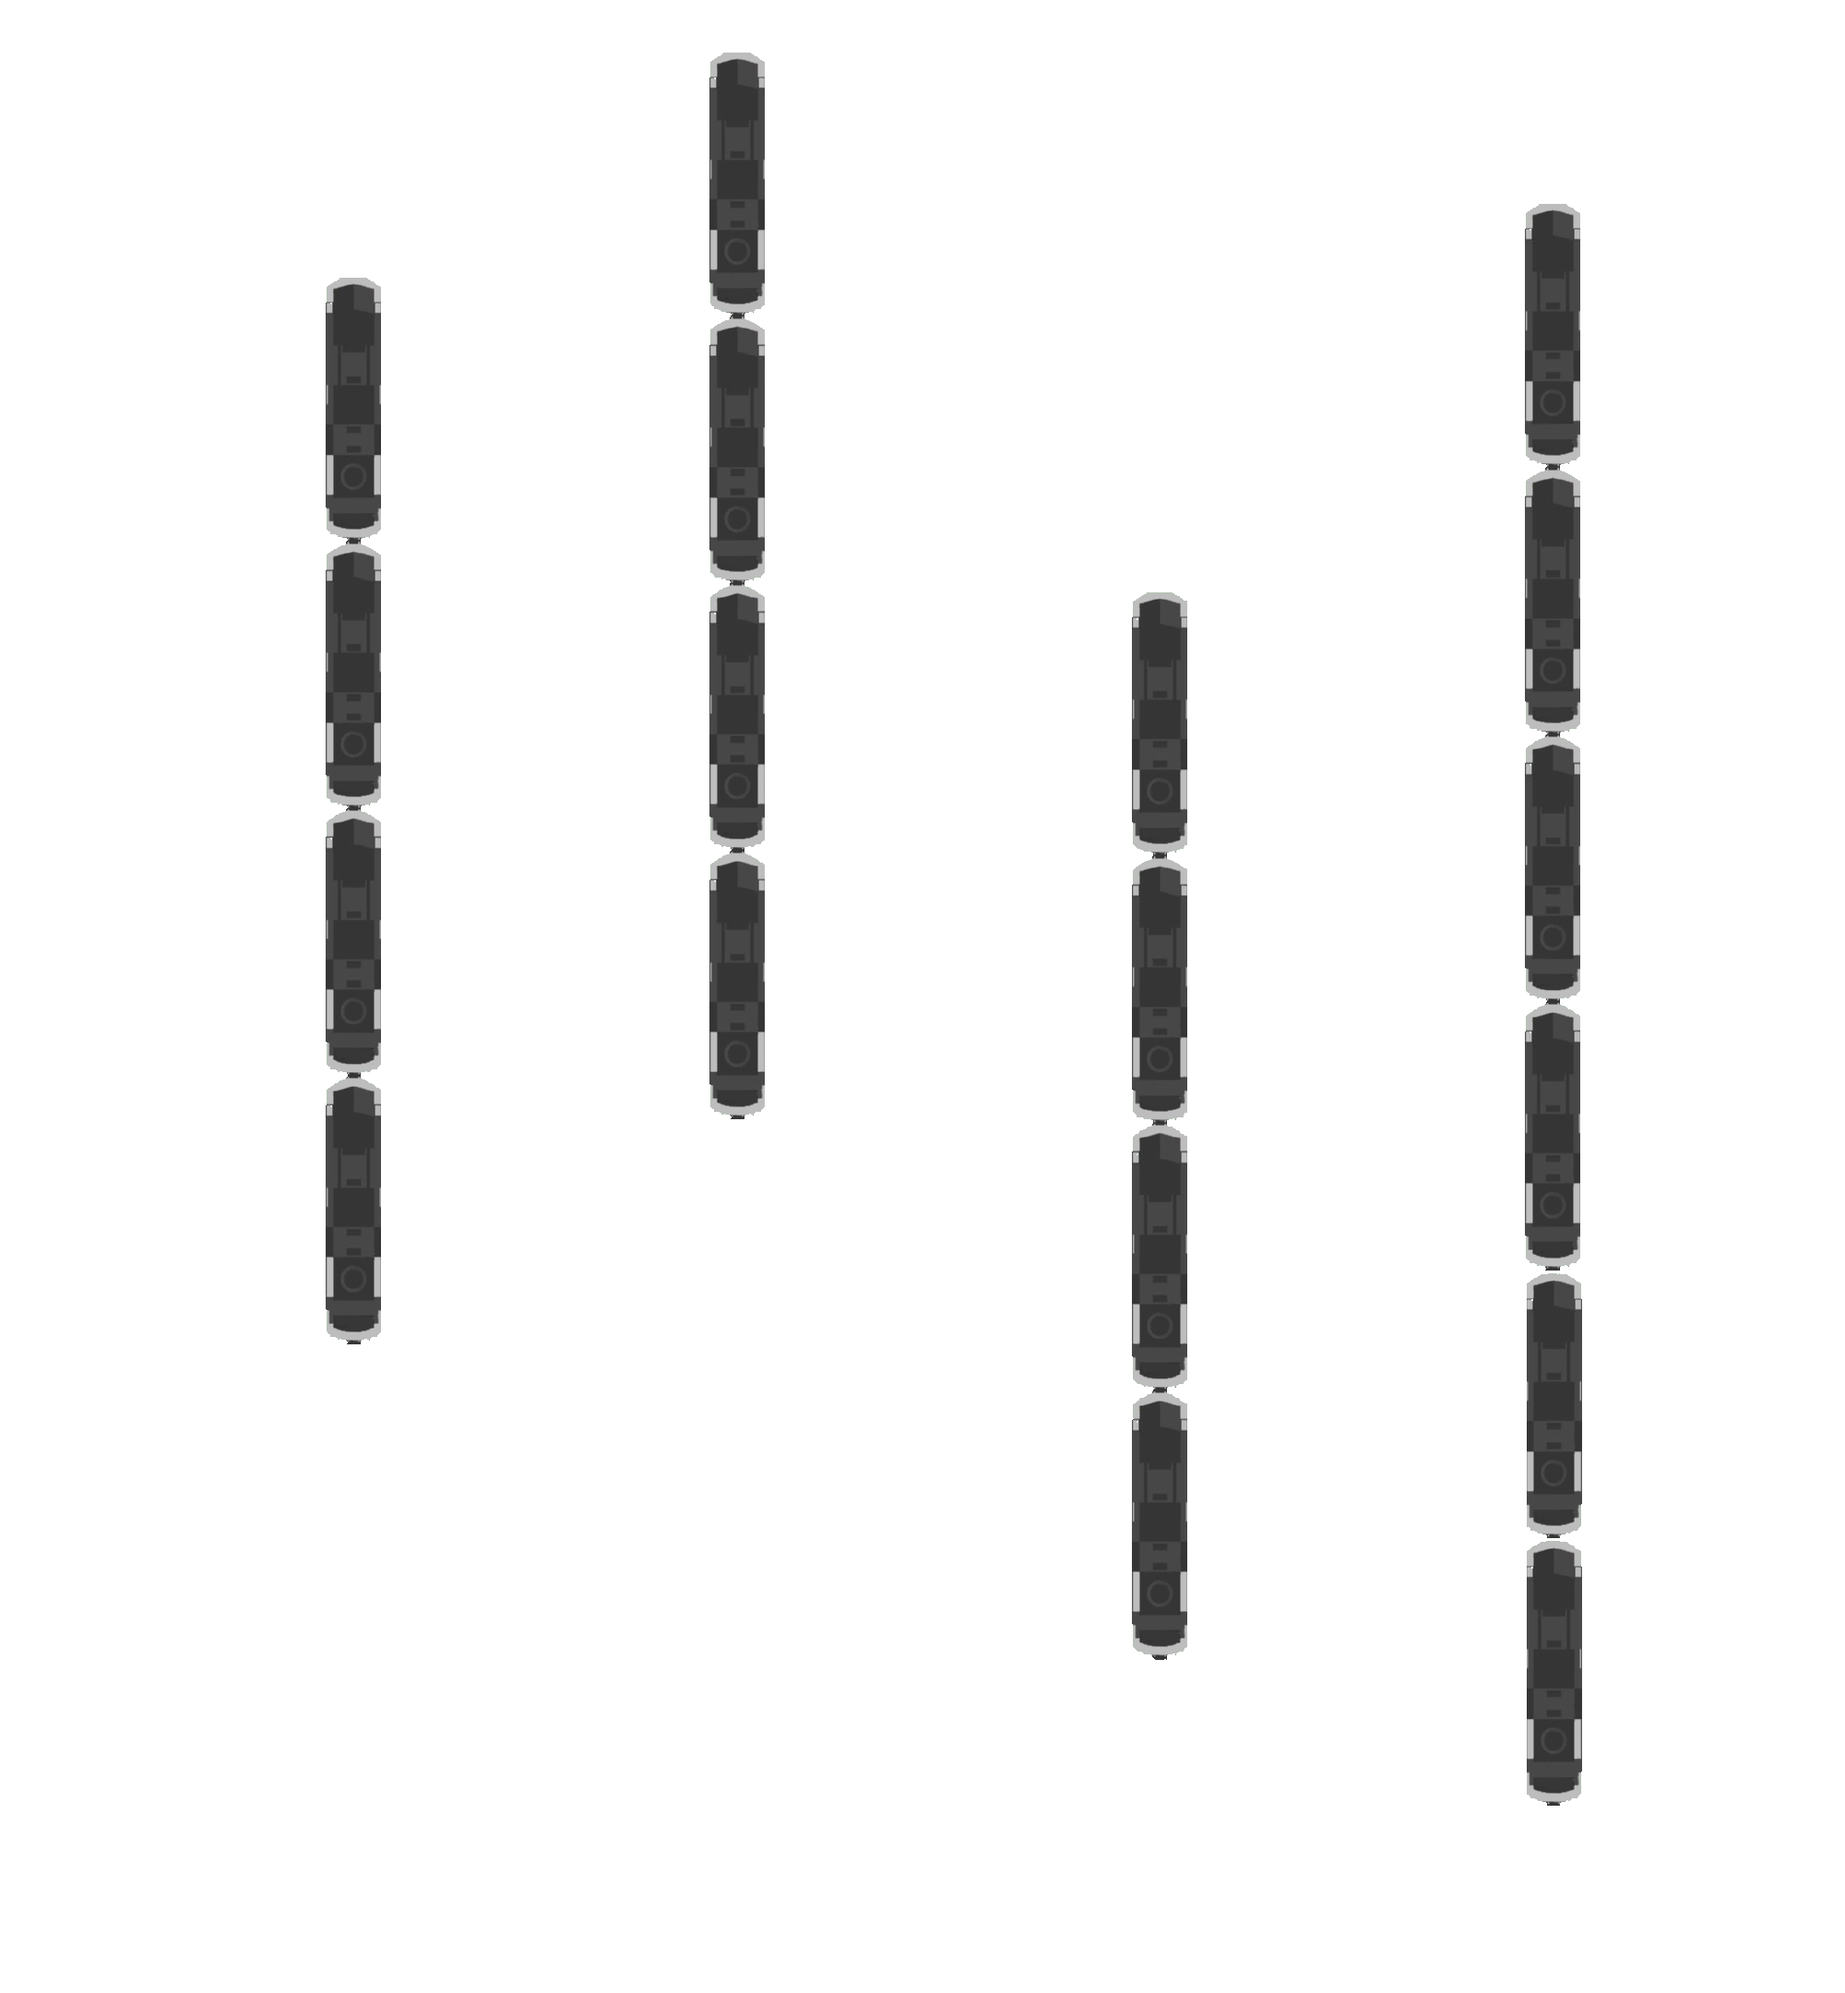
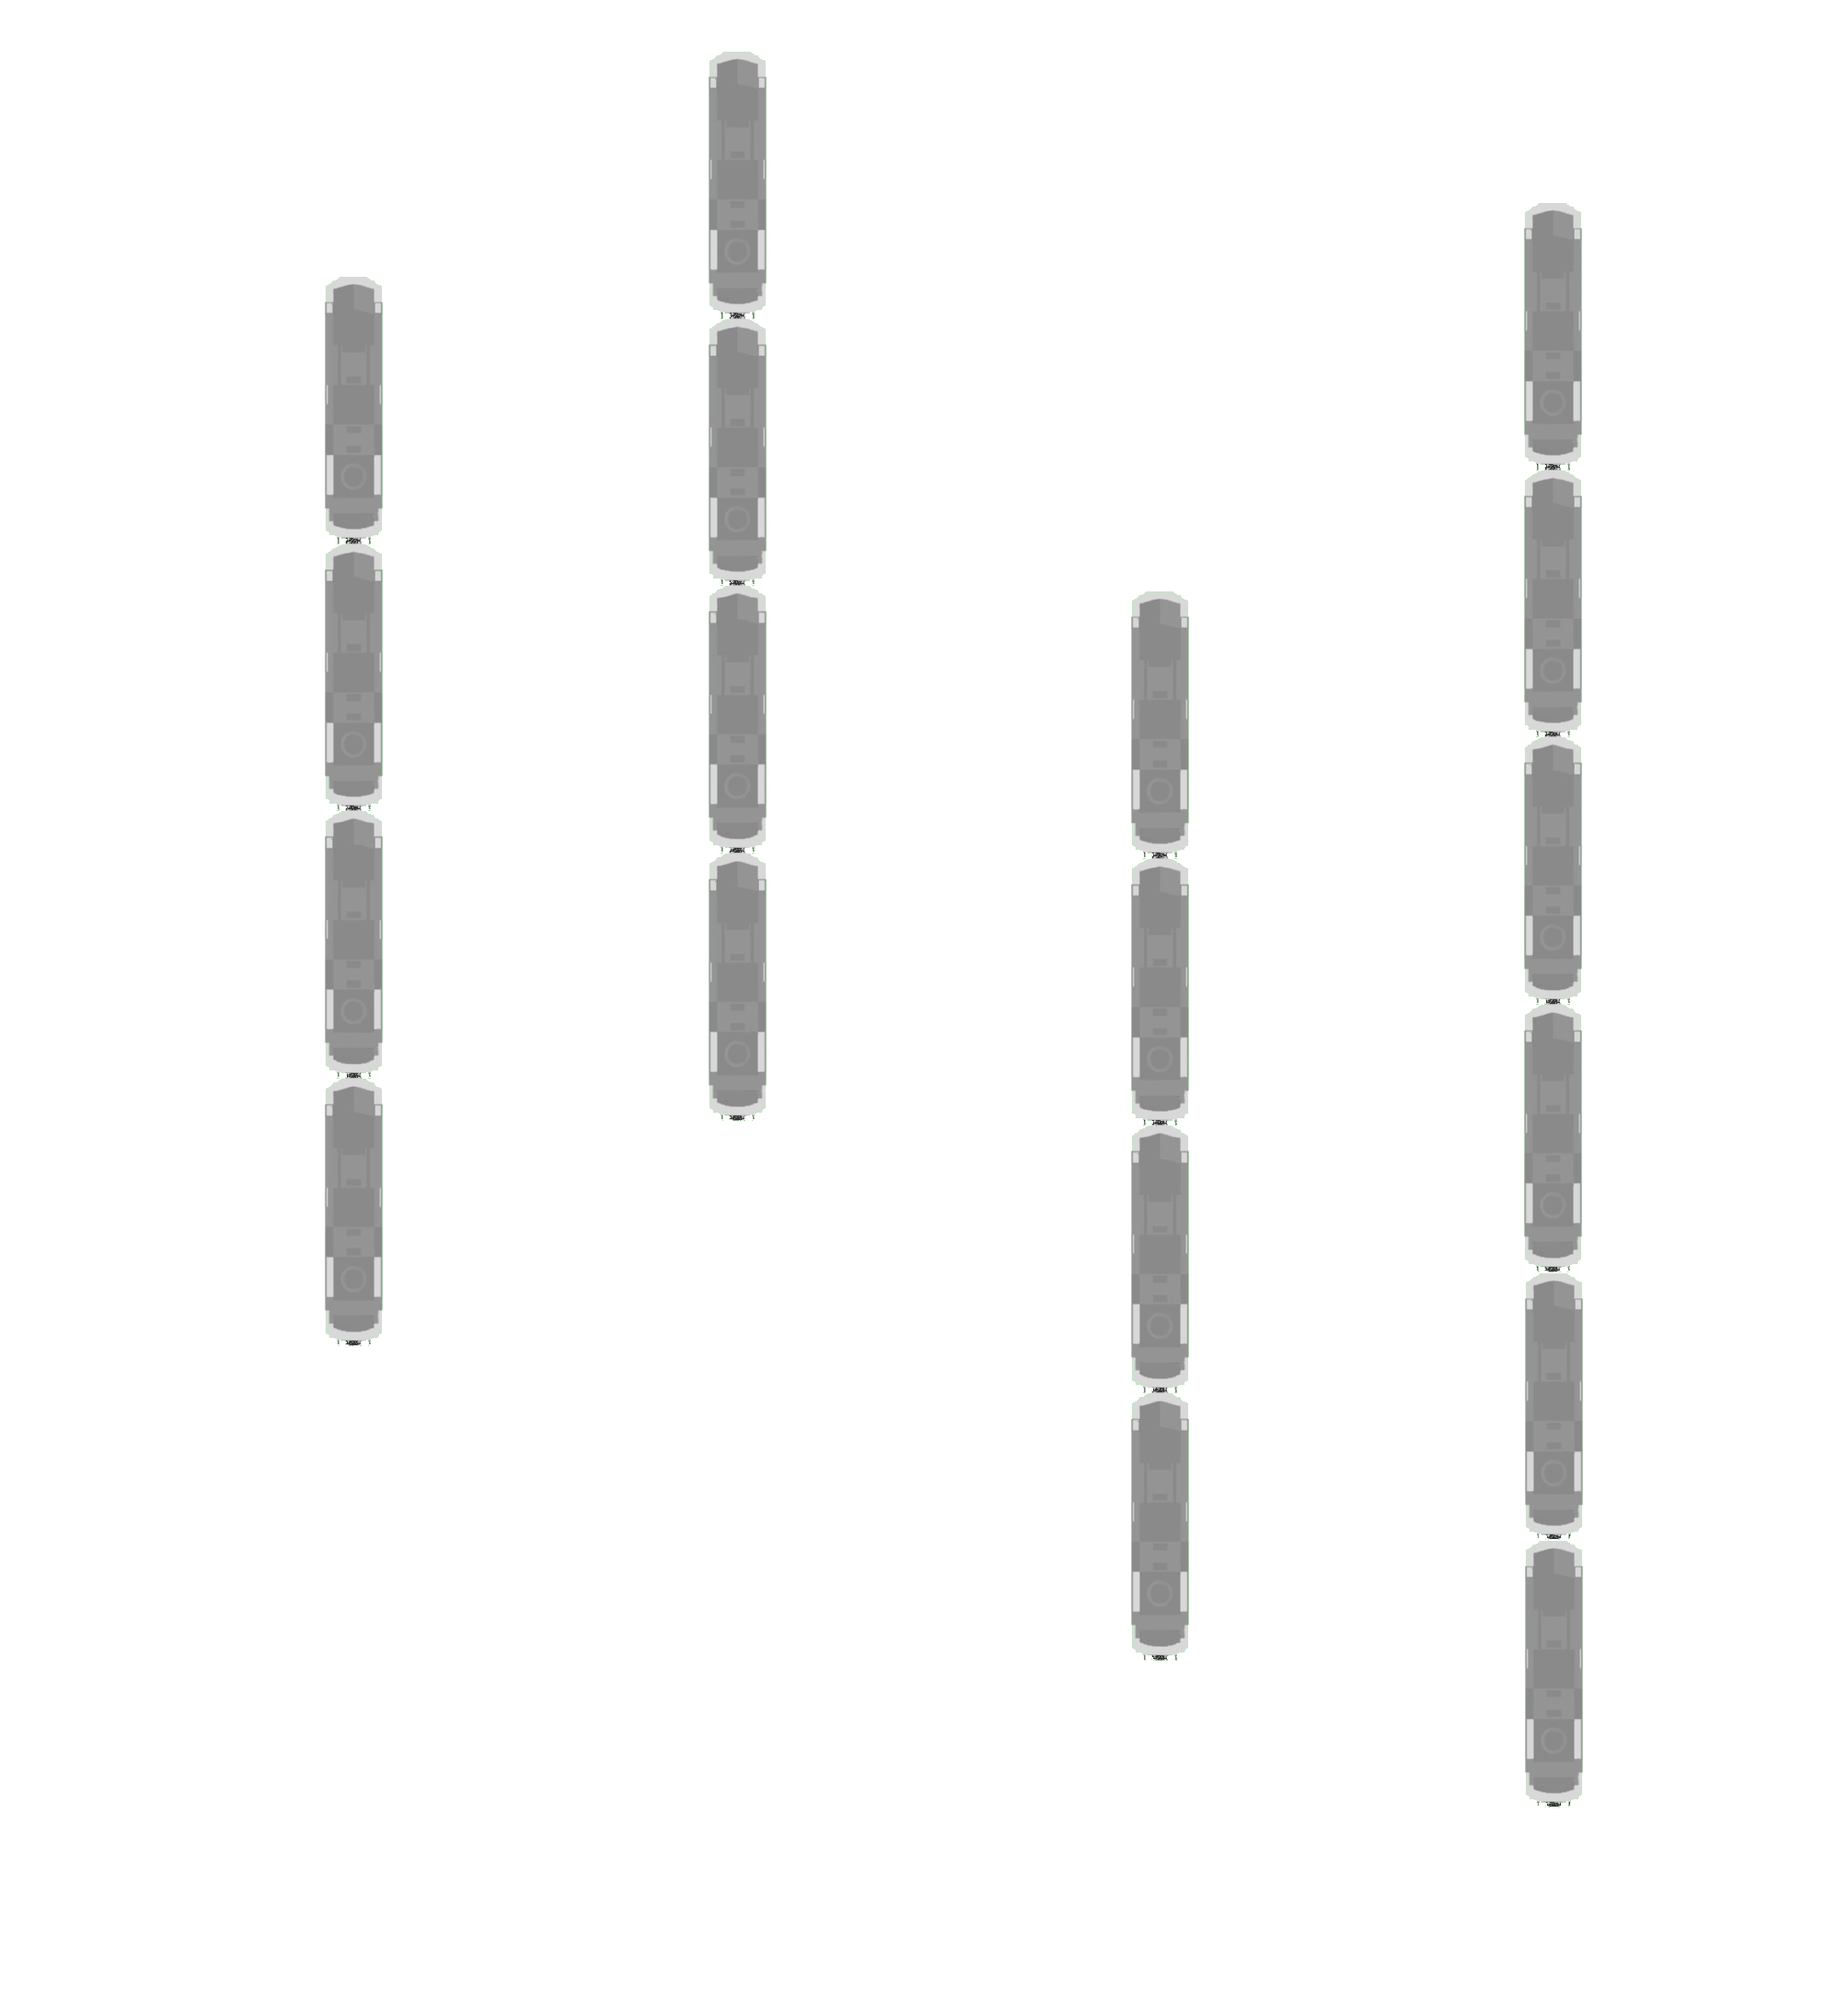
footer figure

diff --git a/style.css b/style.css
@@ -69,10 +69,12 @@ nav i {
 }
 #navleft, #navright {
 	width: 470px;
-	height: 90px;
+	height: 100px;
 	margin: auto;
 	justify-content: space-around;
-	align-items: center;	
+	align-items: center;
+	background-image: url("img/nav1.jpg");
+	background-size: contain;
 }
 #navcenter {
 	width: 166px;
@@ -82,7 +84,7 @@ nav i {
 	background: #100c0c;
 }
 #navleft, #navright {	
-	background: #100c0c;
+	
 	box-shadow: 0px 2px 2px 1px rgba(0, 0, 0, .3);
 }
 .circles {
@@ -118,25 +120,25 @@ nav i {
 
 }
 .circles:nth-child(1) {
-	background-color: #9c3c94;
-}
-.circles:nth-child(2) {
-	background-color: #f48424;
-}
-.circles:nth-child(3) {
 	background-color: #bc040c;
 }
+.circles:nth-child(2) {
+	background-color: #2cbcc4;
+}
+.circles:nth-child(3) {
+	background-color: #9cd4d4;
+}
 .circles:nth-child(4) {
-	background-color: #046cc4;
+	background-color: #2cf4c4;
 }
 .circles:nth-child(5) {
-	background-color: #fcd41c;
+	background-color: #8c4c44;
 }
 .circles:nth-child(6) {
-	background-color: #049c54;
+	background-color: #bc040c;
 }
 #spanwho {
-background-color: #0a0b89;
+background-color: #141c2c;
 	border-radius: 10%;
 	border: 2px solid white;
 }
@@ -229,7 +231,7 @@ main {
 }
 
 #c {
-	background-color: #f48424;		
+	background-color: #2cbcc4;		
 }
 #d {
 	background-color: #bc040c;
@@ -277,7 +279,7 @@ main {
 	
 }
 #timelinec {
-	border-bottom: 5px solid #f48424;
+	border-bottom: 5px solid #2cbcc4;
 }
 #timelined {
 	border-bottom: 5px solid #bc040c;
@@ -407,19 +409,133 @@ main {
 
 /*-------------------------------FOOTER-------------------------*/
 footer {
-	
+	position: relative;
+
 }
-#contact {
-	
-	
-	background: red;
+#divcontact {
+	width: 100%;
+	display: flex;
+	justify-content: space-around;
+	background-image: url("img/backfooter.jpg");
+	background-size: contain;
+	 border-top: 3px solid black;	
+}
+#adresse, #horaires {
+	display: flex;
+	justify-content: space-around;
+	align-items: center;
+	border: 3px solid red;
+	width: 35%;
+}
+/*-----------------------------DEFILEMENT FOOTER---------------------------------*/
+
+#defilfooter h1 {
+	margin: auto;	
+	padding: 12px;
+	color: #fcfc04;
+	font-family: 'Press Start 2P', cursive;
+  	opacity: 0.75;
+  	font-size: 20px;
+  	vertical-align: middle;
+  	text-shadow: 0px 0px 15px #fcfc04;
+  	text-transform: uppercase;
+}
+#defilfooter {
+	width: 25%;
+  margin: auto;
+  height: 40px;
+  overflow: hidden;  /* masque tout ce qui dépasse */
+  box-shadow: /*5px 5px 2px 1px rgba(0, 0, 0, .5),*/ inset 0 0 1em .25em black;
+  background-image: url("img/board1.jpg");
+  background-size: cover;
+  border: 10px solid #100c0c;
+}
+/* le bloc défilant Le bloc défilant doit être un modèle de boîte en ligne n'autorisant 
+pas le renvoi à la ligne et être placé à droite du conteneur.
+L'animation proprement dite est définie en utilisant la propriété animation.*/
+#defilfooter > :first-child {
+  display: inline-block;             /* modèle de boîte en ligne */
+  padding-right: 2em;                   /* un peu d'espace pour la transition */
+  padding-left: 100%;                   /* placement à droite du conteneur */
+  white-space: nowrap;                  /* pas de passage à la ligne */
+  animation: defilement 12s infinite linear;
+  animation-timing-function: cubic-bezier(0.25, 0.5, 0.8, 0.5);
+}
+@keyframes defilement {
+  0% {
+    transform: translate3d(20px,0,0);      /* position initiale à droite */
+  }
+  100% {
+    transform: translate3d(-100%,0,0);  /* position finale à gauche */
+  }
+}
+
+/*-----------------------------FOOTER FIGURE---------------------------------*/
+#divfooter {
+	position: absolute;
+	width: 100%;
+	top: 255px;	
 	font-size: 5em;
+	display: flex;
+	justify-content: space-between;
 }
+#divfooterleft, #divfooterright {
+	display: flex;
+	justify-content: space-between;
+	
+	width: 20%;
+}
+#divfooterleft {
+	margin-left: 10%;
+}
+#divfooterright {
+	margin-right: 10%;
+}
+#divfooter i {
+	
+    padding:0 1px 0 2px;  
+    text-shadow: 5px 1px 10px rgba(0, 0, 0, .8);
+     animation: jump 2s infinite linear;     
+    }
+    @keyframes jump {
+    	0% {
+    	-webkit-transform: rotate(0deg);
+	    transform: rotate(0deg);
+	    transform: translateX(0);}
+   		25%  { 
+   			transform: translateY(-2px);}
+        50% { 
+        	transform: translateX(2px);}
+        75% {
+        	transform: translateY(-2px);}
+        
+  		100% {
+		  	-webkit-transform: rotate(360deg);
+		    transform: rotate(360deg); 
+		    transform: translateX(5px);}        
+  }
+
+#github {
+	color: black;
+}
+#linkedin {
+	color: #0e76a8;
+}
+#twitter {
+	color: #1DA1F2;
+}
+#slack {
+	color: #3F0F3F;
+}
+
+
+
+
 footer figure {	
 	position: relative;	
 	width: 100%;
 	margin: 0;	
-	 border-top: 7px solid black;
+	 border-top: 3px solid black;
 }
 
 footer figure img {  
@@ -430,12 +546,12 @@ footer figure img {
   overflow: hidden;
     background: url("img/seatsbackokok.jpg");
     background-size: cover;
-    animation: compta_animation 25s linear infinite;
+    animation: compta_animation 20s linear infinite;
 }
 
 @keyframes compta_animation {
+  0%  {background-position: -2122px 0;} 
+  100%  {background-position: 0 0;}
   
-  0%  {background-position: 0 0;}
-  100%  {background-position: -2122px 0;} 
-
 }
+

diff --git a/index.html b/index.html
@@ -21,7 +21,7 @@
         <header>
             <div id="logo">
             	<a href="index.html" class="lienindex">
-            	<img src="img/logohellowhiteokokok.jpg" alt="" id="back" />            	        	
+            	<img src="img/logohellowhiteokokok.jpg" alt="logo" id="back" />            	        	
             	</a>
             </div> 
 
@@ -306,18 +306,18 @@
 
             </div>
 
-
-
-        </section>
-
-         
-          
-           <div id="navfooter">
+             <div id="navfooter">
              	<i class="fas fa-arrow-right"></i>            	
              	<a href="what.html" class="lienindex">
              	<span>Suite</span>
              	</a>             	
              </div>
+
+        </section>
+
+         
+          
+          
             
     </main>
             
@@ -327,12 +327,52 @@
       
 
         <footer>
+        	<div id="divcontact">
+        		<div id="horaires">
+        			
+        			<p>🚭</p>
+        			<p>⏲ Horaires: 9h-18h</p>
+        			<p>🏠 17000 La Rochelle</p>
+        			<p>⚠</p>
+        		</div>
+        		<div id="defilfooter"><!-- le conteneur -->
+                <!-- le contenu défilant -->
+                    <h1 id="description">Prochain arrêt : HELLO FRIEND</h1>
+                </div> 
+        		
+        		
+        		<div id="adresse">
+        			<p>📶</p>   
+        			<p>📧 hellofriend@neuf.fr</p>       			
+        			<p><i class="fas fa-mobile-alt"></i>06 98 35 06 42</p>
+        			
+        		</div>
+        		
+        	</div>
 
         	<figure>                          
-				      <img src="img/seats.png">
+				      <img src="img/seats1.png">
               
              
 				    </figure>
+			<div id="divfooter">
+				<div id="divfooterleft">
+					<a href="https://github.com/RaphaelCouillaud" class="lienindex">
+					<span id="github"><i class="fab fa-github-square"></i></span>
+					</a>
+					<a href="https://www.linkedin.com/in/raphael-couillaud/" class="lienindex">
+					<span id="linkedin"><i class="fab fa-linkedin"></i></span>
+					</a>
+				</div>
+				<div id="divfooterright">
+					<a href="https://github.com/RaphaelCouillaud" class="lienindex">
+					<span id="twitter"><i class="fab fa-twitter-square"></i></span>
+					</a>
+					<a href="https://github.com/RaphaelCouillaud" class="lienindex">
+					<span id="slack"><i class="fab fa-slack"></i></span>
+					</a>
+				</div>
+			</div>
 
            
             

diff --git a/what.html b/what.html
@@ -307,6 +307,7 @@
           <section id="securisation">
             <p>De nos jours, la sécurité des applications web est devenu un enjeu majeur. Beaucoup de services fonctionnent grâce aux technologies web et il est primordial de comprendre les risques liés à ces technologies.
             80 % des attaques sur les applications web sont dues à de mauvaises pratiques de développement, qui sont à l’origine des vulnérabilités découvertes et exploitées <span>🧛</span>.<br />De plus en plus d'entreprises utilisent des applications web pour traiter des données privées, telles que des informations personnelles (nom, date de naissance, numéro d'identification national, etc.) ou des données bancaires. Toutes ces données représentent un attrait considérable pour un attaquant.
+            <h3>HACK MR ROBOT</h3>
             La gestion du risque consiste à déterminer la valeur d'un actif et le coût de sa protection.<br /><br />
             C'est pourquoi il est primordial de gérer ce risque en appliquant trois grands principes pour garantir la sécurité d’une application ou d’une infrastructure :<br /><br />
             <i class="fas fa-arrow-circle-right"></i>La confidentialité. C'est l'assurance que les personnes non autorisées n'accèdent pas à des informations sensibles.<br />

diff --git a/who.html b/who.html
@@ -149,7 +149,7 @@
 
           <div id="section4">
               <figure>                          
-                <img src="img/come.jpg">
+                <img src="img/fsoc.jpg">
                 <figcaption>NOW avec background vraie photo et img comic + diplome rncp ...TO BE CONTINUED.</figcaption>
               </figure> 
           </div>
